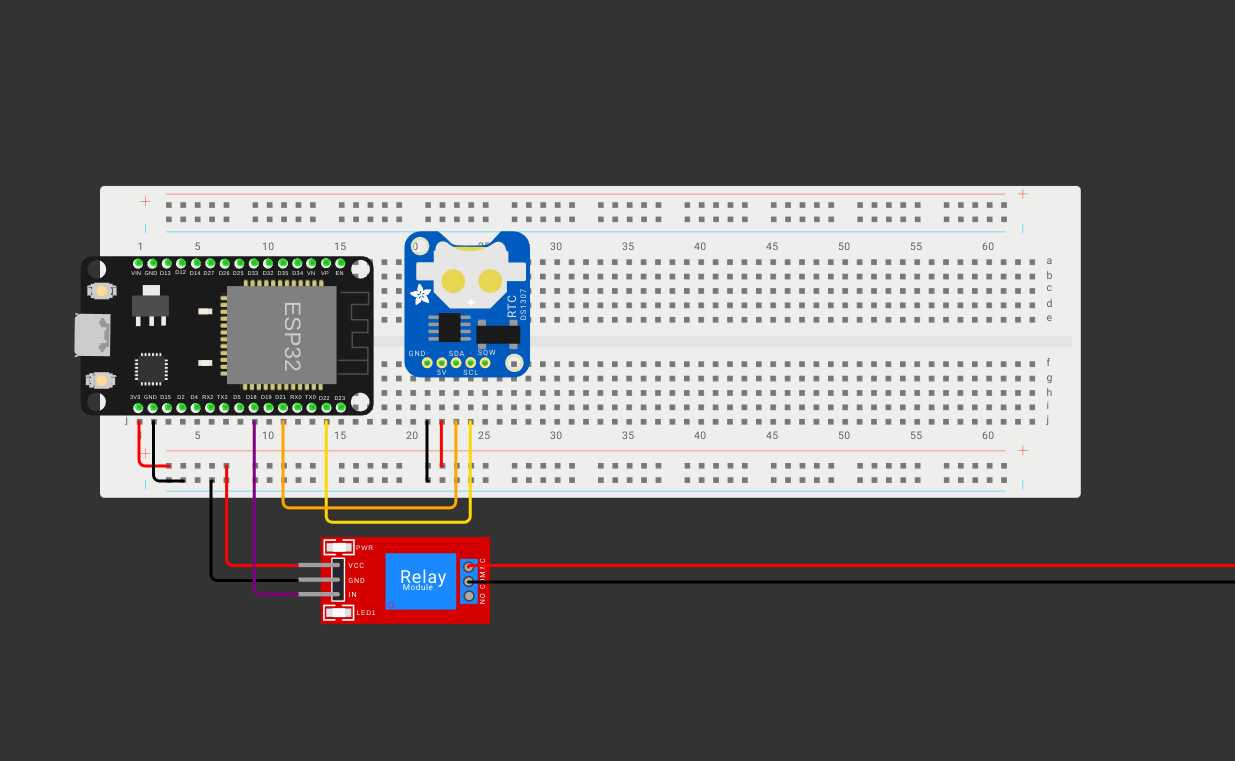
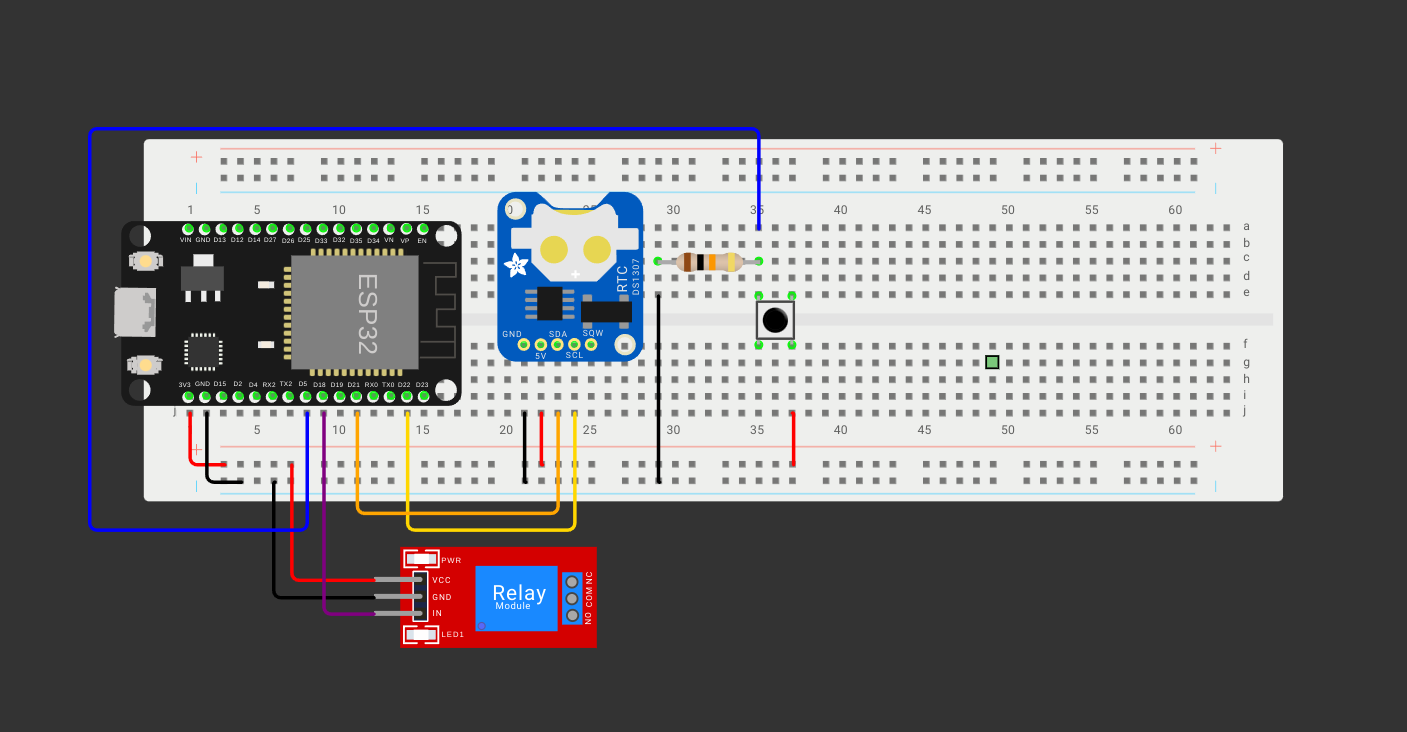
feat: adicionando botão de liga e desligar manualmente fisicamente

Changed region(s): [[0.0615, 0.1503, 1.0, 0.9016]]

diff --git a/src/main/main.cpp b/src/main/main.cpp
@@ -16,8 +16,11 @@
 const char* ssid     = "sistema_de_irrigacao";
 const char* password = "123456789";
 
+#define MANUAL_BUTTON_PORT 5
+
 WebServer server(80);
 RelayController relay;
+SemaphoreHandle_t manualButtonSemaphore;
 
 void initWiFi() {
   // WiFi.mode(WIFI_STA);
@@ -37,10 +40,33 @@ void initWiFi() {
   WiFi.softAPConfig(local_ip, gateway, subnet);
 
 }
+
+volatile unsigned long lastClickTime = 0;
+#define DEBOUNCE_TIME 1000
+void IRAM_ATTR handleManualButton() {
+  unsigned long currentTime = millis();
+  if (currentTime - lastClickTime > DEBOUNCE_TIME) {
+    lastClickTime = currentTime;
+    BaseType_t xHigherPriorityTaskWoken = pdFALSE;
+    xSemaphoreGiveFromISR(manualButtonSemaphore, &xHigherPriorityTaskWoken);
+    if (xHigherPriorityTaskWoken) {
+      portYIELD_FROM_ISR();
+    }
+  }
+}
+
 void setup() {
   Serial.begin(115200);
 	pinMode(relay.port, OUTPUT);
+  pinMode(MANUAL_BUTTON_PORT, INPUT_PULLUP);
   initWiFi();
+
+  attachInterrupt(digitalPinToInterrupt(MANUAL_BUTTON_PORT), handleManualButton, RISING);
+  manualButtonSemaphore = xSemaphoreCreateBinary();
+  if (manualButtonSemaphore == NULL) {
+    Serial.println("Failed to create semaphore");
+    while (1);
+  }
 
 	server.on("/", [](){server.send(200, "text/html", Pages::landingPage());});
 	server.on("/configurar-relogio", [](){server.send(200, "text/html", Pages::clockAdjustPage());});
@@ -51,7 +77,7 @@ void setup() {
 	server.on("/rotinas", RoutinesController::readAll);
 	server.on("/setar-relogio", RTCController::configureClock);
 	server.on("/relogio", RTCController::readNow);
-  server.on("/mudar-rele", [](){relay.manuallyTurn();});
+  server.on("/mudar-rele", [](){relay.manuallyToggleRelayState();});
 	server.on("/status", [](){relay.getStatus();});
 
   server.begin();
@@ -115,6 +141,10 @@ void loop(){
     relay.turnOn();
   } else if((!deviceMustBeTurnedOn && relay.isOn)) {
     relay.turnOff();
+  }
+
+  if (xSemaphoreTake(manualButtonSemaphore, 0) == pdTRUE) {
+    relay.physicallyToggleRelayState();
   }
 	
 	server.handleClient();

diff --git a/src/main/relayController.cpp b/src/main/relayController.cpp
@@ -28,7 +28,11 @@ void RelayController::clientTurnOff(){
   manuallyTurnedOff = true;
 }
 
-void RelayController::manuallyTurn(){
+void RelayController::manuallyToggleRelayState(){
   if(isOn){ clientTurnOff(); } else {clientTurnOn();}
   server.send(200, "text/json", "");
+}
+
+void RelayController::physicallyToggleRelayState(){
+  if(isOn){ clientTurnOff(); } else {clientTurnOn();}
 }

diff --git a/src/main/relayController.h b/src/main/relayController.h
@@ -16,7 +16,8 @@
       void getStatus();
       void clientTurnOn();
       void clientTurnOff();
-      void manuallyTurn();
+      void manuallyToggleRelayState();
+      void physicallyToggleRelayState();
       
   };
   
